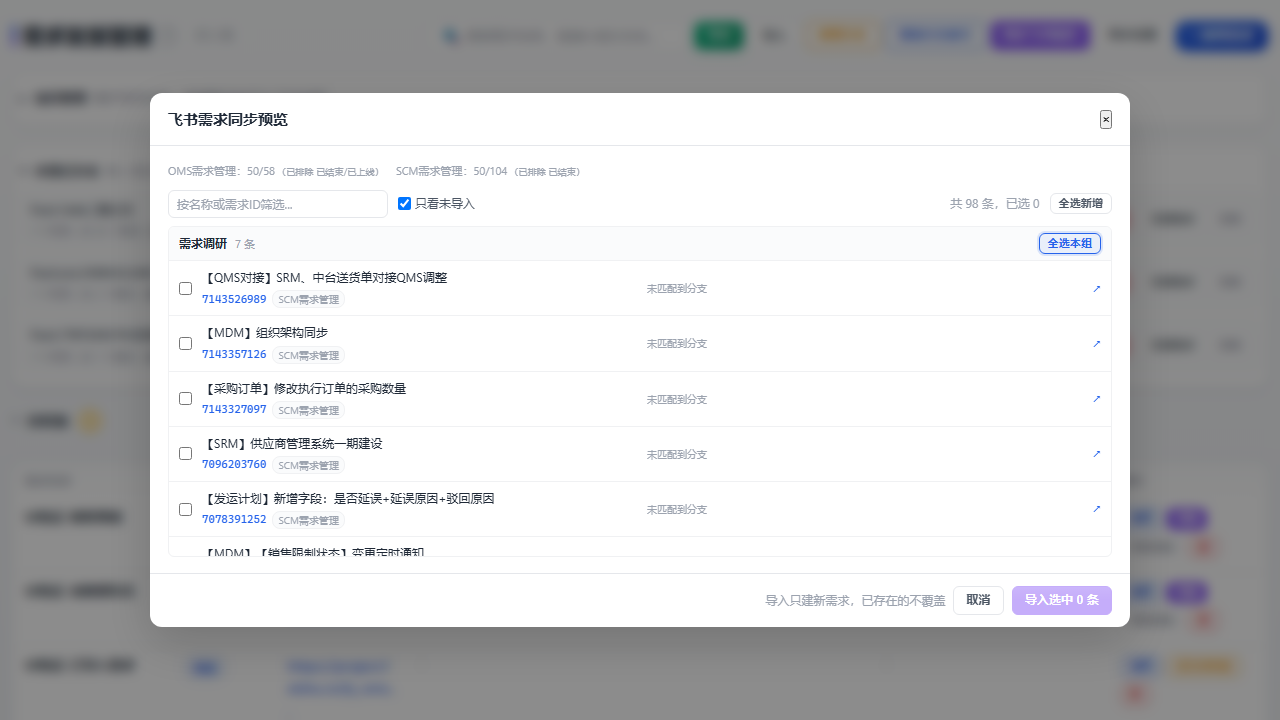
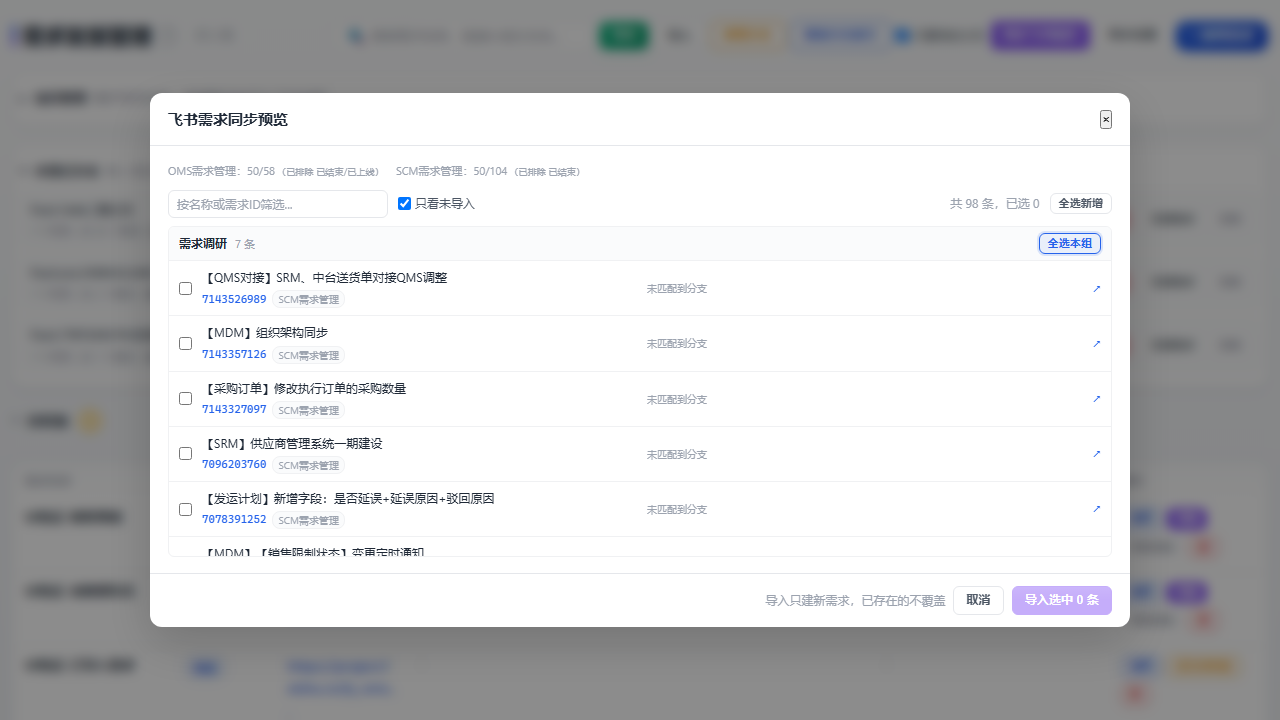
feat(release-pilot): 分支索引默认只保留我创建的分支
- 引擎：branch-index 新增 onlyMine 参数（默认开）。创建者按该分支**首个独占提交的
  作者**判定（最靠近分叉点的那条），而不是提交最多的人；与 git config user.name /
  user.email 比对
- 身份取不到时不过滤并回传 onlyMine=false —— 否则会把所有分支判成「不是我的」
  而静默清空索引，比不过滤危险得多
- 回传 notMine（过滤条数）、branches[].mine、branches[].owner，便于界面说明口径
- 前端：顶部新增「只看我的分支」开关（切换即重算），未登记分支区标注当前口径与过滤条数
- onlyMine 与 repo 一并进入服务端缓存键，两种口径不互相命中
- 配置纳入导出/导入（todo_index_config）

实测：auth-web 的非主线分支全部属于钱龙/licheng/Liujiangbei，开启后未登记分支 3 → 0；
ops-web/pms-web/scm-web 的分支清一色是自己，过滤数 0，结果零变化。

验证：Playwright 45 项断言全绿，新增 3 条覆盖本需求。

Changed region(s): [[0.4688, 0.0, 0.5938, 0.0917], [0.625, 0.0306, 0.7188, 0.0611], [0.25, 0.0306, 0.2812, 0.0611]]

diff --git a/server.js b/server.js
@@ -509,7 +509,42 @@ async function listRemoteBranches(repo, match) {
  *      全算进来，实测一条分支能冒出 9 个别人的需求ID。
  *   4. 独占提交为 0 说明已完全并入主线，不参与关联（否则会把历史分支全捞出来）。
  */
-async function computeBranchIndex(cwd, base, maxCommits, maxBranches, remoteNames) {
+/**
+ * 取当前仓库的提交身份（user.name / user.email）。
+ *
+ * 用来判断一条分支是不是「我创建的」——同事的分支混进未登记列表和匹配结果里纯是噪声：
+ * 实测 auth-web 的 6 条活跃分支全部属于钱龙 / licheng / Liujiangbei，而
+ * ops-web / pms-web / scm-web / aps-web 的分支清一色是自己。
+ */
+async function gitIdentity(cwd) {
+  const cacheKey = `identity:${cwd}`
+  const hit = cacheGet(cacheKey, 6 * 60 * 60 * 1000)
+  if (hit) return hit
+  const id = { name: '', email: '' }
+  try {
+    id.name = (await runGit(['config', 'user.name'], cwd)).trim()
+  } catch {}
+  try {
+    id.email = (await runGit(['config', 'user.email'], cwd)).trim()
+  } catch {}
+  cacheSet(cacheKey, id)
+  return id
+}
+
+/**
+ * 判定分支的创建者。
+ *
+ * 取该分支独占提交里**最早的一条**（最靠近分叉点）的作者，而不是「提交最多的人」：
+ * 分支的起点作者才是创建者；别人建的分支上我后来补过几个提交，不该整条算成我的。
+ */
+function isMineBy(entry, me) {
+  if (!entry) return false
+  if (me.name && entry.author === me.name) return true
+  if (me.email && entry.email === me.email) return true
+  return false
+}
+
+async function computeBranchIndex(cwd, base, maxCommits, maxBranches, remoteNames, onlyMine) {
   if (!fs.existsSync(cwd)) throw { code: 'GIT_PATH_MISSING', message: `本地路径不存在：${cwd}` }
   if (!fs.existsSync(path.join(cwd, '.git'))) throw { code: 'GIT_NOT_REPO', message: `不是 git 仓库：${cwd}` }
 
@@ -519,6 +554,11 @@ async function computeBranchIndex(cwd, base, maxCommits, maxBranches, remoteName
   } catch {
     throw { code: 'GIT_BASE_MISSING', message: `仓库中没有 ${baseRef}，请确认发布主线名称` }
   }
+
+  // 只筛自己的分支时先取身份。拿不到身份就**不筛** —— 否则会把所有分支都判成
+  // 「不是我的」而静默清空整个索引，比不筛危险得多。
+  const me = onlyMine ? await gitIdentity(cwd) : null
+  const filterByMine = !!(me && (me.name || me.email))
 
   // 只需要分支名、完整 ref 和 tip 的日期（日期顺手取出来，省掉每分支一次 git log -1）
   const refsOut = await runGit(
@@ -549,6 +589,7 @@ async function computeBranchIndex(cwd, base, maxCommits, maxBranches, remoteName
   const branches = []
   const unregistered = []
   let scanned = 0
+  let notMine = 0
 
   for (const [name, info] of refByName) {
     if (scanned >= maxBranches) break
@@ -567,32 +608,52 @@ async function computeBranchIndex(cwd, base, maxCommits, maxBranches, remoteName
     // 也不会把「刚好等于上限」的分支误判为超限。
     let out
     try {
+      // 顺带带上作者：与取提交标题同一次调用，不额外增加进程开销
       out = await runGit(
-        ['log', '--first-parent', '-n', String(maxCommits + 1), '--format=%s', `${baseRef}..${ref}`],
+        ['log', '--first-parent', '-n', String(maxCommits + 1), '--format=%an|%ae|%s', `${baseRef}..${ref}`],
         cwd,
       )
     } catch {
       continue // ref 已删除或不可解析 —— 跳过该分支，不算错误
     }
 
-    const lines = out.split('\n').filter(Boolean)
+    // git log 默认由新到旧，所以数组最后一条就是分支最早的独占提交
+    const entries = []
+    for (const line of out.split('\n')) {
+      if (!line) continue
+      const i1 = line.indexOf('|')
+      const i2 = line.indexOf('|', i1 + 1)
+      if (i1 < 0 || i2 < 0) continue
+      entries.push({ author: line.slice(0, i1), email: line.slice(i1 + 1, i2), subject: line.slice(i2 + 1) })
+    }
 
-    if (lines.length === 0) {
+    if (entries.length === 0) {
       // 相对发布主线没有任何独占提交 = 改动已全部进入主线，不参与关联
-      branches.push({ name, ids: [], commits: 0, lastDate, merged: true, skipped: false })
+      branches.push({ name, ids: [], commits: 0, lastDate, merged: true, skipped: false, mine: null, owner: '' })
       continue
     }
 
-    if (lines.length > maxCommits) {
+    if (entries.length > maxCommits) {
       // commits 留 null 是有意的：这里根本没数完，报一个数字会是编造的。
       // 前端据此显示「未分析」，与「确实没有需求ID」区分开。
-      branches.push({ name, ids: [], commits: null, lastDate, merged: false, skipped: true })
+      branches.push({ name, ids: [], commits: null, lastDate, merged: false, skipped: true, mine: null, owner: '' })
       continue
     }
 
-    const ids = extractReqIds(out)
-    branches.push({ name, ids, commits: lines.length, lastDate, merged: false, skipped: false })
-    if (ids.length === 0) unregistered.push({ name, commits: lines.length, lastDate })
+    const creator = entries[entries.length - 1]
+    const mine = filterByMine ? isMineBy(creator, me) : null
+    if (filterByMine && !mine) {
+      notMine++
+      continue
+    }
+
+    const ids = extractReqIds(entries.map(e => e.subject).join('\n'))
+    const entry = {
+      name, ids, commits: entries.length, lastDate, merged: false, skipped: false,
+      mine, owner: creator.author || '',
+    }
+    branches.push(entry)
+    if (ids.length === 0) unregistered.push({ name, commits: entries.length, lastDate, owner: entry.owner })
   }
 
   branches.sort((a, b) => (b.lastDate || '').localeCompare(a.lastDate || ''))
@@ -609,6 +670,8 @@ async function computeBranchIndex(cwd, base, maxCommits, maxBranches, remoteName
     unregistered,
     scanned,
     total: refByName.size,
+    onlyMine: filterByMine,
+    notMine, // 因「不是自己创建」被过滤掉的分支数
     localOnly, // 被远端列表过滤掉的本地 ref 条数（含 refs/heads 与 refs/remotes 的重复项，仅作诊断用）
     remoteOnly, // 远端有、本地没有的分支名
   }
@@ -736,9 +799,11 @@ async function handleBranchIndex(req, res, query) {
   const base = query.get('base') || 'master'
   const maxCommits = Number(query.get('maxCommits')) || DEFAULT_MAX_COMMITS
   const maxBranches = Number(query.get('maxBranches')) || DEFAULT_MAX_BRANCHES
+  // 默认只保留自己创建的分支：同事的分支混进来只会污染未登记列表与匹配结果
+  const onlyMine = query.get('onlyMine') !== '0'
   const force = query.get('refresh') === '1'
-  // repo 必须进缓存键：带远端过滤与不带的结果不同，两者不能互相命中
-  const cacheKey = `index:${fullPath}:${base}:${maxCommits}:${repo || ''}`
+  // repo 与 onlyMine 都必须进缓存键：它们不同则结果不同，不能互相命中
+  const cacheKey = `index:${fullPath}:${base}:${maxCommits}:${repo || ''}:${onlyMine ? 'mine' : 'all'}`
   const started = Date.now()
 
   if (!force) {
@@ -757,7 +822,7 @@ async function handleBranchIndex(req, res, query) {
       }
     }
 
-    const result = await computeBranchIndex(fullPath, base, maxCommits, maxBranches, remoteNames)
+    const result = await computeBranchIndex(fullPath, base, maxCommits, maxBranches, remoteNames, onlyMine)
     const payload = {
       path: fullPath,
       repo: repo || '',

diff --git a/todo-release.js b/todo-release.js
@@ -30,6 +30,7 @@ const LS_BRANCH_INDEX = 'todo_branch_index'
 const LS_BRANCH_LINKS = 'todo_branch_links'
 const LS_BRANCH_TRIAGE = 'todo_branch_triage'
 const LS_MEEGLE_CONFIG = 'todo_meegle_config'
+const LS_INDEX_CONFIG = 'todo_index_config'
 /** 索引 TTL：分支一直在长，实测同一条分支两天内需求覆盖就会变，不能无限期复用 */
 const INDEX_TTL_MS = 10 * 60 * 1000
 
@@ -90,7 +91,9 @@ createApp({
       syncSettings: { visible: false, loading: false, error: '', spaces: [], types: [] },
       syncDialog: { visible: false, loading: false, error: '', perType: [], errors: [], keyword: '', onlyUnregistered: true },
       syncRaw: [],
-      syncSelection: {}
+      syncSelection: {},
+      // 分支索引只保留自己创建的分支：同事的分支混进未登记列表与匹配结果纯是噪声
+      indexConfig: { onlyMine: true }
     })
 
     // ===== Sections (computed) =====
@@ -239,6 +242,7 @@ createApp({
         branchTriage: state.branchTriage,
         branchLinks: state.branchLinks,
         meegleConfig: state.meegleConfig,
+        indexConfig: state.indexConfig,
       }
     }
 
@@ -252,6 +256,9 @@ createApp({
       if (data && data.branchLinks && typeof data.branchLinks === 'object') state.branchLinks = data.branchLinks
       if (data && data.meegleConfig && typeof data.meegleConfig === 'object') {
         state.meegleConfig = { ...state.meegleConfig, ...data.meegleConfig }
+      }
+      if (data && data.indexConfig && typeof data.indexConfig === 'object') {
+        state.indexConfig = { ...state.indexConfig, ...data.indexConfig }
       }
       // 导入/加载后立即落盘，否则刷新一次这些新字段就丢了
       saveBranchTriage()
@@ -839,6 +846,17 @@ createApp({
       try { localStorage.setItem(LS_BRANCH_TRIAGE, JSON.stringify(state.branchTriage)) } catch {}
     }
 
+    function saveIndexConfig() {
+      try { localStorage.setItem(LS_INDEX_CONFIG, JSON.stringify(state.indexConfig)) } catch {}
+    }
+
+    /** 切换「只看我的分支」后必须重算一次，否则界面上还是旧口径的结果 */
+    function setOnlyMine(val) {
+      state.indexConfig.onlyMine = !!val
+      saveIndexConfig()
+      refreshBranchIndex(true)
+    }
+
     /** 缺 timestamp 一律视为过期：历史脏数据不能被当成新鲜结果继续用 */
     function indexStale(entry) {
       return !entry || !entry.timestamp || (Date.now() - entry.timestamp) > INDEX_TTL_MS
@@ -868,19 +886,27 @@ createApp({
 
       for (const p of targets) {
         try {
-          const query = `?path=${encodeURIComponent(p.localPath)}&repo=${encodeURIComponent(deriveRepoUrl(p.mr))}${force ? '&refresh=1' : ''}`
+          const onlyMine = state.indexConfig.onlyMine !== false
+          const query = `?path=${encodeURIComponent(p.localPath)}&repo=${encodeURIComponent(deriveRepoUrl(p.mr))}`
+            + `&onlyMine=${onlyMine ? '1' : '0'}${force ? '&refresh=1' : ''}`
           const res = await fetch(apiUrl('/api/git/branch-index') + query)
           const data = await res.json()
           if (data.code) throw new Error(data.error || data.code)
 
           const branches = {}
           for (const b of data.branches) {
-            branches[b.name] = { ids: b.ids, commits: b.commits, lastDate: b.lastDate, merged: b.merged, skipped: b.skipped }
+            branches[b.name] = {
+              ids: b.ids, commits: b.commits, lastDate: b.lastDate,
+              merged: b.merged, skipped: b.skipped, owner: b.owner || '',
+            }
           }
           state.branchIndex[p.name] = {
             base: data.base,
             branches,
             unregistered: (data.unregistered || []).map(u => u.name),
+            unregisteredOwners: Object.fromEntries((data.unregistered || []).map(u => [u.name, u.owner || ''])),
+            onlyMine: !!data.onlyMine,
+            notMine: data.notMine || 0,
             remoteFiltered: !!data.remoteFiltered,
             remoteOnly: data.remoteOnly || [],
             timestamp: Date.now()
@@ -932,6 +958,10 @@ createApp({
       return branchOtherIds(projectName, branchName, selfWorkItemId(item))
     }
 
+    /** 因「不是自己创建」被过滤掉的分支总数，用于在界面上说明当前口径 */
+    const indexNotMineTotal = computed(() =>
+      Object.values(state.branchIndex).reduce((n, e) => n + (e.notMine || 0), 0))
+
     /**
      * 未登记分支：有独占提交、但反查不到任何需求ID。
      * 发版时最容易漏掉的就是这些 —— 需求还没出、或者一堆优化都做在一个分支里。
@@ -971,8 +1001,7 @@ createApp({
       toast('已恢复提示')
     }
 
-    /** 已处置的分支（折叠区展示 + 可恢复） */
-    const triagedGroups = computed(() => {
+    /** 已处置的分支（折叠区展示 + 可恢复） */    const triagedGroups = computed(() => {
       const byName = new Map()
       for (const [key, rec] of Object.entries(state.branchTriage)) {
         const parts = key.split('\u0000')
@@ -1386,6 +1415,10 @@ createApp({
       try { state.branchLinks = JSON.parse(localStorage.getItem(LS_BRANCH_LINKS)) || {} } catch { state.branchLinks = {} }
       try { state.branchTriage = JSON.parse(localStorage.getItem(LS_BRANCH_TRIAGE)) || {} } catch { state.branchTriage = {} }
       try {
+        const ic = JSON.parse(localStorage.getItem(LS_INDEX_CONFIG))
+        if (ic && typeof ic === 'object') state.indexConfig = { ...state.indexConfig, ...ic }
+      } catch {}
+      try {
         const cfg = JSON.parse(localStorage.getItem(LS_MEEGLE_CONFIG))
         if (cfg && typeof cfg === 'object') state.meegleConfig = { ...state.meegleConfig, ...cfg }
         // 旧默认模板没有 {statusFilter} 占位符，直接用会让「排除已完成状态」静默失效，
@@ -1437,6 +1470,7 @@ createApp({
       dismissReminder, exportAndDismiss, saveLaunchBranch, toggleSection, openMrUrl,
       // v2：分支索引与关联
       refreshBranchIndex, branchOtherIds, impactIds, triageBranchGroup, restoreBranchTriage, deriveRepoUrl,
+      setOnlyMine,
       // v2：飞书项目同步
       openSyncSettings, openSyncDialog, selectSpace, toggleType, saveSyncSettings, loadTypes,
       fetchMeegleItems, toggleSyncRow, selectAllNew, applySync, matchesOf, pickPrimaryMatches,
@@ -1475,6 +1509,8 @@ createApp({
       indexBusy: computed(() => state.indexBusy),
       indexProgress: computed(() => state.indexProgress),
       unregExpanded: computed({ get: () => state.unregExpanded, set: v => { state.unregExpanded = v } }),
+      indexConfig: computed(() => state.indexConfig),
+      indexNotMineTotal,
       // v2 飞书同步别名
       meegleConfig: computed(() => state.meegleConfig),
       meegleStatus: computed(() => state.meegleStatus),

diff --git a/todo-release.html b/todo-release.html
@@ -37,6 +37,9 @@
       <label class="btn btn-outline btn-sm" style="cursor:pointer">导入 <input type="file" accept=".json" style="display:none" @change="importFromFile" /></label>
       <button class="btn btn-warning btn-sm" @click="fetchAllBranches">获取分支</button>
       <button class="btn btn-info btn-sm" :disabled="indexBusy" @click="refreshBranchIndex(true)">{{indexBusy?'刷新中...':'刷新分支索引'}}</button>
+      <label class="header-check" title="只分析你创建的分支（按分支首个独占提交的作者判定）。关闭后会包含同事的分支。">
+        <input type="checkbox" :checked="indexConfig.onlyMine" @change="setOnlyMine($event.target.checked)"> 只看我的分支
+      </label>
       <button class="btn btn-purple btn-sm" @click="openSyncDialog">同步飞书项目</button>
       <button class="btn btn-outline btn-sm" @click="openSyncSettings">同步设置</button>
       <button class="btn btn-primary" @click="startAdding">+ 新增需求</button>
@@ -117,6 +120,9 @@
         <span class="hint" v-if="unregisteredGroups.length">有 {{unregisteredGroups.length}} 条分支查不到需求登记，确认是否需要一起发版</span>
         <span class="hint" v-else-if="Object.keys(branchIndex).length">没有未登记分支</span>
         <span class="hint" v-else>尚未刷新分支索引</span>
+        <span class="hint" v-if="Object.keys(branchIndex).length">
+          {{indexConfig.onlyMine ? '仅我创建的分支' : '包含他人分支'}}<template v-if="indexNotMineTotal">，已过滤 {{indexNotMineTotal}} 条他人分支</template>
+        </span>
       </div>
       <div class="collapse-body" :class="{expanded:unregExpanded}">
         <div v-if="!Object.keys(branchIndex).length" class="unreg-hint">

diff --git a/使用说明.html b/使用说明.html
@@ -289,6 +289,9 @@ kbd {
   需要项目同时配置了 <strong>MR 地址</strong>与<strong>本地路径</strong> —— 反查依赖本地提交历史，没克隆就算不出来。</p>
   <p>索引结果有有效期（10 分钟），过期会重算，也可以随时手动刷新。分支一直在长，
   同一条分支隔几天覆盖的需求就可能变多。</p>
+  <p><strong>「只看我的分支」</strong>（默认开启）：只分析你创建的分支。判定依据是<strong>分支首个独占提交的作者</strong>
+  —— 也就是分支的起点作者，而不是提交最多的人。同事的分支混进来只会污染「未登记分支」和匹配结果，
+  所以默认不开。关掉后会包含所有人的分支，界面会标注当前口径与过滤掉的数量。</p>
   <p class="note"><strong>打开「同步飞书项目」时会自动补算过期的索引</strong>，所以不需要每次先手动点一遍。</p>
   <p class="note" style="margin-top:8px"><strong>如果同步预览里每条都显示「未匹配到分支」</strong>，先看窗口顶部的提示：
   它通常不是"这条需求真的没有分支"，而是<strong>索引还没生成</strong>或<strong>项目没配全</strong>（缺 MR 地址或本地路径）。

diff --git a/todo-release.css b/todo-release.css
@@ -1608,3 +1608,9 @@ input[data-role="syncProjectName"] {
   background: var(--warning-bg); border: 1px solid var(--warning);
   border-radius: var(--radius-sm); padding: 8px 10px; margin-bottom: 10px;
 }
+
+/* v2: 顶部的「只看我的分支」开关 */
+.header-check {
+  display: inline-flex; align-items: center; gap: 4px; white-space: nowrap;
+  font-size: 12px; color: var(--text-secondary); cursor: pointer; user-select: none;
+}

diff --git a/docs/技术文档-接口契约.md b/docs/技术文档-接口契约.md
@@ -130,6 +130,7 @@
 | `base` | 否 | `master` | 发布主线 |
 | `maxCommits` | 否 | `500` | 单分支独占提交数上限，超过则 `skipped: true` 且 `commits: null` |
 | `maxBranches` | 否 | `300` | 单仓参与分析的分支数上限 |
+| `onlyMine` | 否 | `1` | 只保留**我创建的分支**；传 `0` 则包含他人分支 |
 | `refresh` | 否 | — | `1` 时绕过缓存 |
 
 ```json
@@ -169,6 +170,8 @@
 
 - 合并基线与提交计数**不再单独调用**：区间直接用 `origin/<base>..<分支>`。因为 `--first-parent` 只沿第一父链前进，而分叉点本身在主线可达、会被自然排除，结果与 `merge-base..分支 --first-parent` 逐一相同（已实测提交集合与提取出的 ID 均一致）。每分支因此只跑一次 git，28 个分支从 85 次调用降到 29 次，实测 6.4s → 2.9s；
 - `-n (maxCommits + 1)`：既避免把超大分支的整段历史拉进内存，又不会把「刚好等于上限」的分支误判为超限；
+- **创建者判定**：取该分支独占提交里**最早的一条**（最靠近分叉点）的作者，与 `git config user.name` / `user.email` 比对 —— 分支的起点作者才是创建者；别人建的分支上我后来补过几个提交，不该整条算成我的。实测 auth-web 的非主线分支全部属于他人（钱龙 / licheng / Liujiangbei），而 ops-web / pms-web / scm-web 的分支清一色是自己，所以这条过滤对后者零影响、对前者能清掉全部噪声；
+- **身份取不到时不过滤**（`onlyMine` 回传 `false`）：否则会把所有分支都判成「不是我的」而静默清空整个索引，比不过滤危险得多；
 - 远端列表拉取失败时**降级为纯本地分析**并置 `remoteFiltered: false`：提交分析本身不依赖网络，不该整体失败。
 
 字段语义（前端按此渲染，不得二次推导）：
@@ -183,6 +186,10 @@
 | `remoteFiltered` | 是否用远端分支列表做了交集（取决于是否传 `repo`） |
 | `localOnly` | 被远端列表过滤掉的本地 ref 条数（诊断用，含 heads/remotes 重复项） |
 | `remoteOnly` | 远端有、本地无 ref 的分支名（分析不了，提示该 fetch 了） |
+| `onlyMine` | 本次是否按「我创建的」过滤（身份取不到时为 `false`，即未过滤） |
+| `notMine` | 因不是自己创建而被滤掉的分支数 |
+| `branches[].mine` | 是否我创建；未按创建者过滤（`onlyMine=0`）且身份未知时为 `null` |
+| `branches[].owner` | 分支创建者（独占提交里最早一条的作者），用于展示「这是谁的分支」 |
 | `computedAt` | 本次计算完成时间；缓存命中时据此判断结果新鲜度 |
 
 ⚠ **结果有时效性**：实测 `feat/ops四需求合并分支` 在 10-29 是 fp=8/4个ID，11-02 变成 fp=18/5个ID。因此响应必须带 `elapsedMs` 且前端缓存需带 `timestamp`，TTL 到时自动重算。

diff --git a/.kiro/specs/vue-migration/requirements.md b/.kiro/specs/vue-migration/requirements.md
@@ -297,8 +297,10 @@
 2. WHEN 本地存在克隆，THE The_App SHALL 同时保留原有本地分支通道（含作者与日期），两条通道并存互不替代。
 3. THE The_App SHALL 过滤环境与临时分支（如 `dev`、`uat`、`test`、`master_launched`、`mdmdev`、`mdmuat`、`mdmtest`、`*_old`、`*_copy`、`copy分支`、`复制分支`）。
 4. WHERE 项目配置了本地路径，THE The_App SHALL 以远端真实分支列表与本地 ref 取交集，滤除远端已删除的陈旧分支。
-5. WHEN 服务端口与默认端口不一致，THE The_App SHALL 读取服务写入的端口文件并连到实际端口，不得静默把请求打到其他进程。
-6. IF 远端不可达，THEN THE The_App SHALL 记录错误并降级为纯本地分析，而不是让整个索引失败。
+5. WHERE 用户未关闭「只看我的分支」，THE The_App SHALL 只保留由当前提交身份创建的分支，创建者按该分支**首个独占提交的作者**判定。
+6. IF 无法取得当前提交身份，THEN THE The_App SHALL 不做创建者过滤并如实回传未过滤，而不是把所有分支判为他人分支而清空索引。
+7. WHEN 服务端口与默认端口不一致，THE The_App SHALL 读取服务写入的端口文件并连到实际端口，不得静默把请求打到其他进程。
+8. IF 远端不可达，THEN THE The_App SHALL 记录错误并降级为纯本地分析，而不是让整个索引失败。
 
 ### Requirement 22: 需求与分支的自动关联
 
